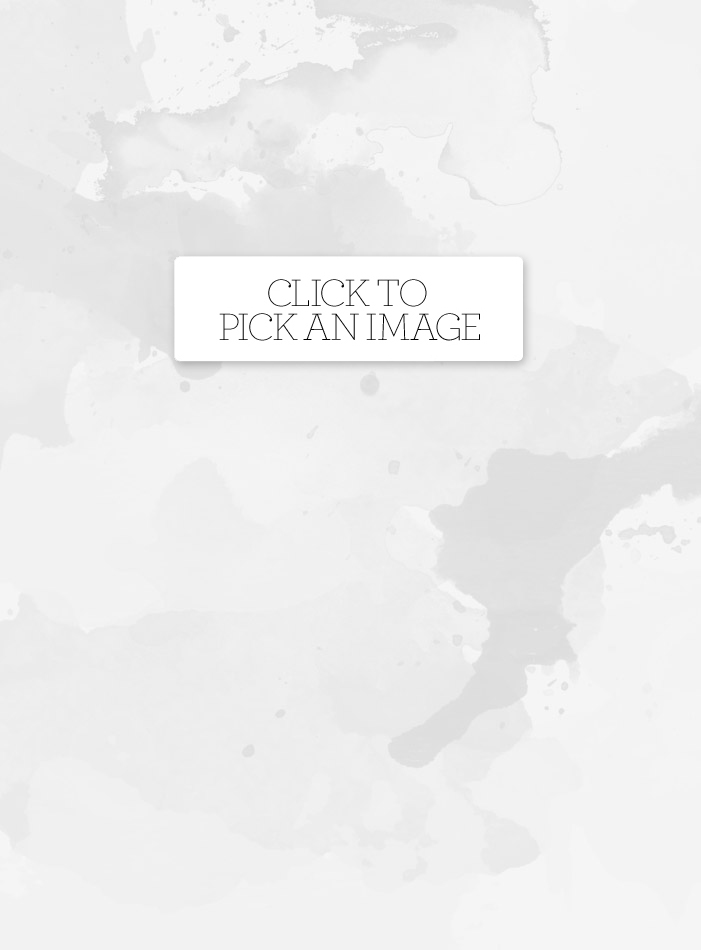
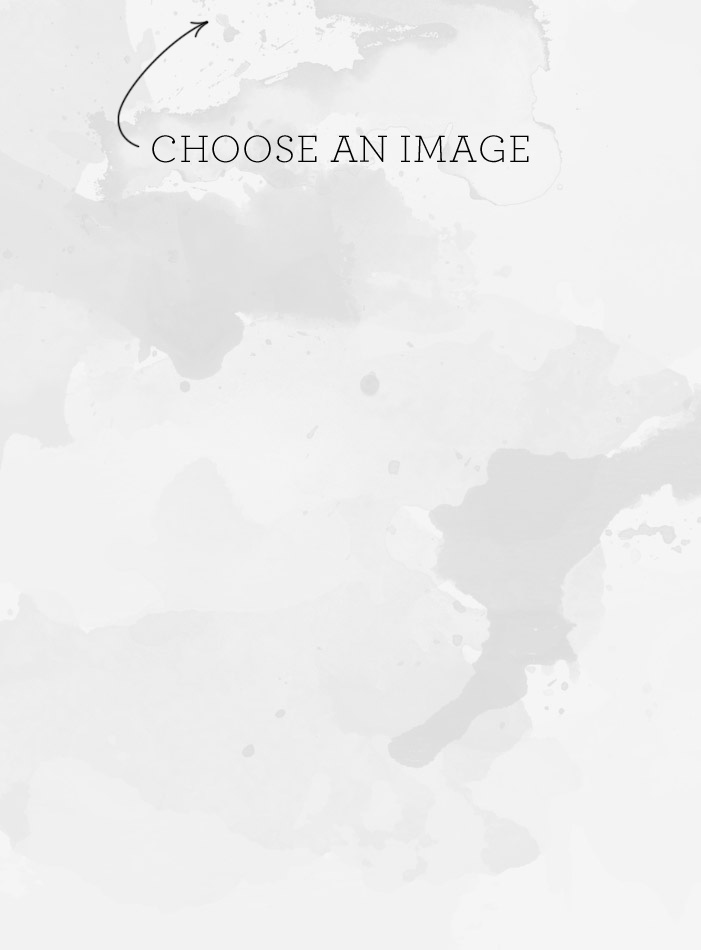
Fixed cross-browser issues with the file uploader on page theme images.

diff --git a/public/stylesheets/styles.css b/public/stylesheets/styles.css
@@ -6,7 +6,8 @@ html, body {
   text-shadow: 0 1px 1px white;
   background: white;
   min-height: 100%;
-  height: 100%; }
+  height: 100%;
+  overflow: hidden; }
 
 h1, h2 {
   font-weight: normal; }
@@ -460,16 +461,16 @@ form.new_story .topics li {
           overflow: hidden;
           background: transparent url(../images/page-themes/36px-tall-dashed-line.png) repeat;
           outline: none; }
-      #page-editor ul#pages li.page .full-image input[type="file"] {
+      #page-editor ul#pages li.page .full-image .input {
+        text-align: center;
+        width: 600px;
+        margin: 50px auto 10px; }
+      #page-editor ul#pages li.page .full-image .image-preview {
         margin: 0 auto;
         width: 600px;
         height: 400px;
-        background: transparent url(../images/page-themes/pick-an-image-bg.jpg) no-repeat 50% -60px;
+        background: transparent url(../images/page-themes/pick-an-image-bg.jpg?2323) no-repeat 50% 0;
         margin: 0 auto;
-        padding-top: 200px;
-        text-align: center;
-        text-indent: -9999px;
-        cursor: pointer;
         z-index: 1; }
       #page-editor ul#pages li.page .full-image .upload-clicker {
         width: 367px;

diff --git a/public/stylesheets/sass/stories.sass b/public/stylesheets/sass/stories.sass
@@ -211,16 +211,16 @@ form.new_story
 					background: transparent url(../images/page-themes/36px-tall-dashed-line.png) repeat
 					outline: none
 			.full-image
-				input[type="file"]
+				.input
+					text-align: center
+					width: 600px
+					margin: 50px auto 10px
+				.image-preview
 					margin: 0 auto
 					width: 600px
 					height: 400px
-					background: transparent url(../images/page-themes/pick-an-image-bg.jpg) no-repeat 50% -60px
+					background: transparent url(../images/page-themes/pick-an-image-bg.jpg?2323) no-repeat 50% 0
 					margin: 0 auto
-					padding-top: 200px
-					text-align: center
-					text-indent: -9999px
-					cursor: pointer
 					z-index: 1
 				.upload-clicker
 					width: 367px

diff --git a/public/stylesheets/sass/styles.sass b/public/stylesheets/sass/styles.sass
@@ -20,6 +20,7 @@ html, body
 	//$background_color url(../images/cardboard.jpg) repeat
 	min-height: 100%
 	height: 100%
+	overflow: hidden
 
 h1, h2
 	font-weight: normal
